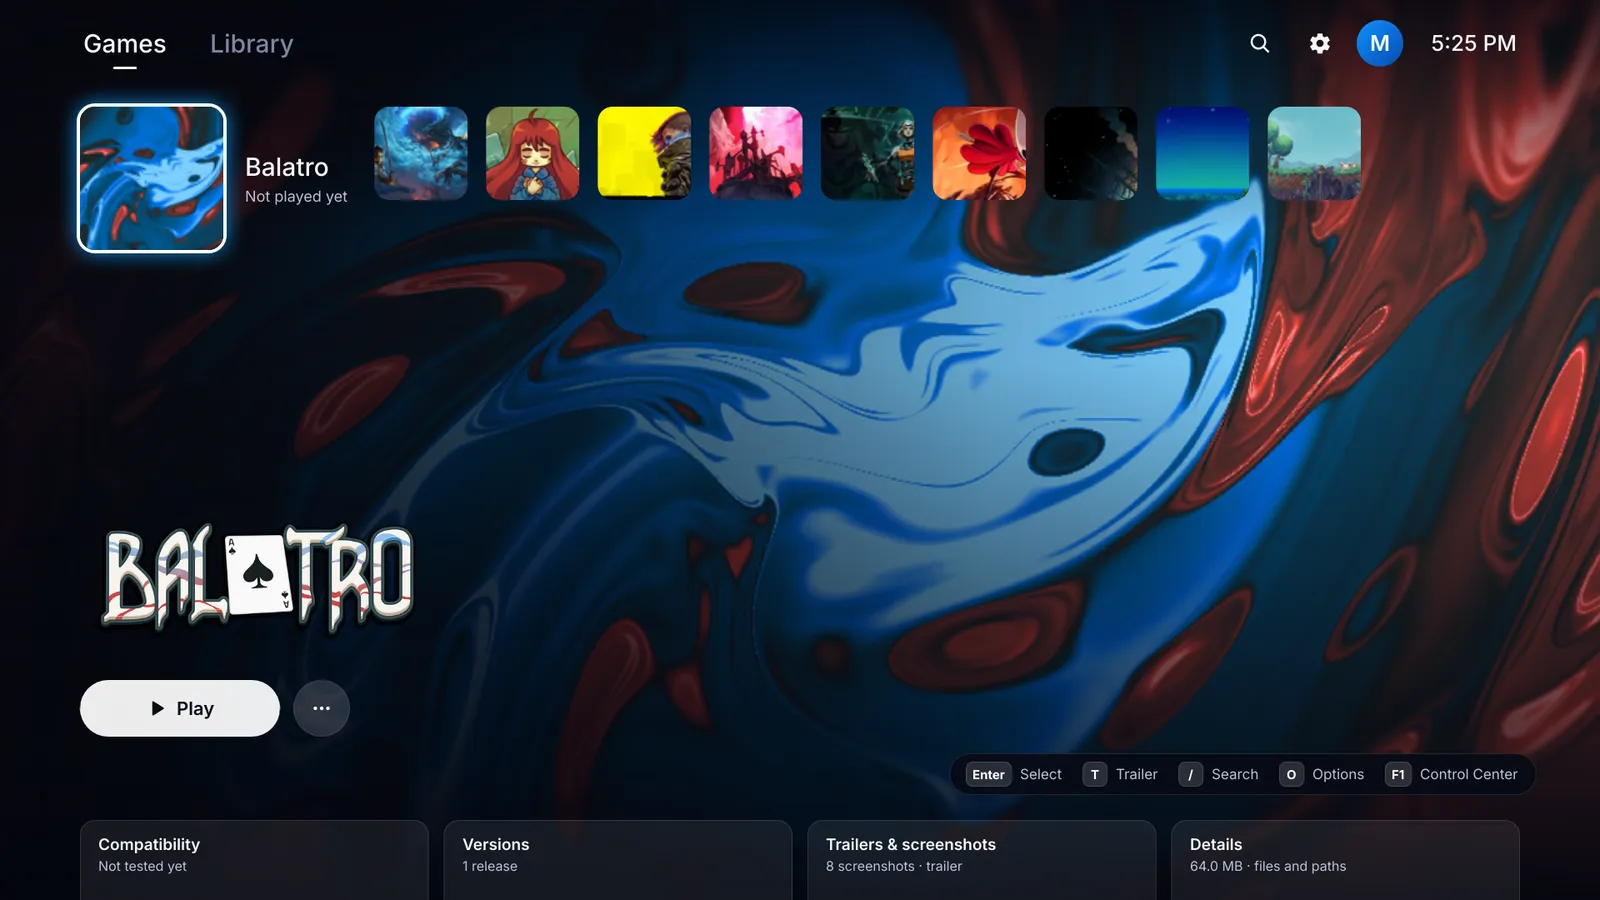
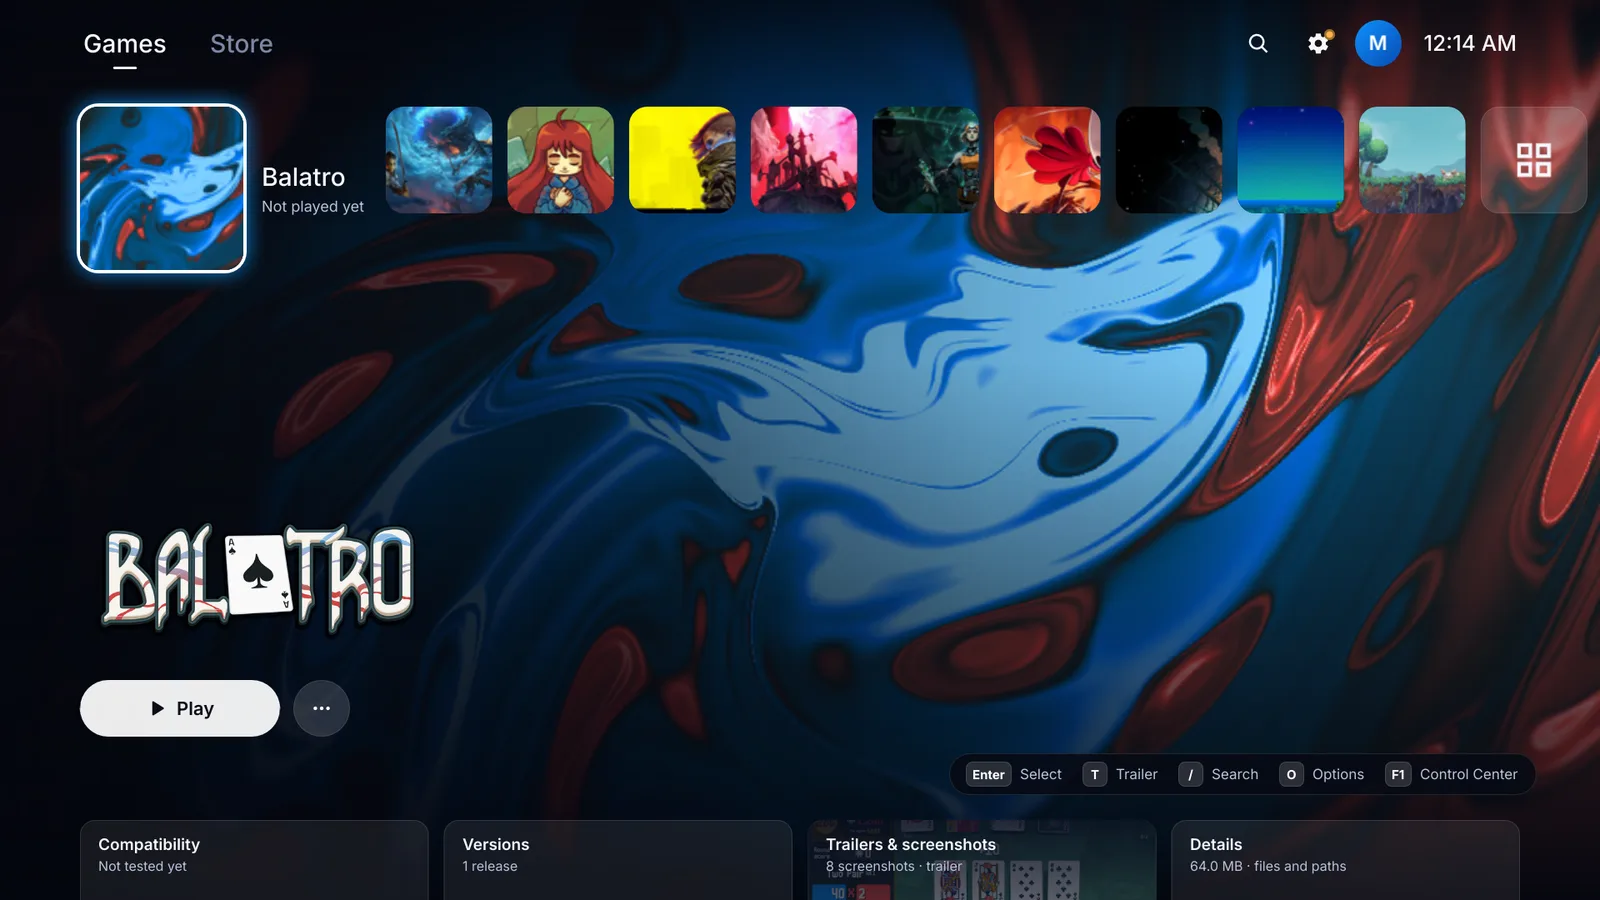
New Home, Game Library and profile screenshots; Coming soon: SwarmPlay Link and SwarmPlay OS; 1.32.1

diff --git a/index.html b/index.html
@@ -39,6 +39,7 @@
     </a>
     <div class="links">
       <a href="#home">Features</a>
+      <a href="#soon">Coming soon</a>
       <a href="#get">Install</a>
       <a href="#faq">Questions</a>
       <a href="https://github.com/swarmplayhq/swarmplay" rel="noopener">GitHub</a>
@@ -68,11 +69,11 @@
           Source code
         </a>
       </div>
-      <p class="meta reveal">Version <span data-version>1.29.0</span> · <a href="https://github.com/swarmplayhq/swarmplay/releases" rel="noopener">what's new</a></p>
+      <p class="meta reveal">Version <span data-version>1.32.1</span> · <a href="https://github.com/swarmplayhq/swarmplay/releases" rel="noopener">what's new</a></p>
     </div>
     <figure class="hero-shot reveal">
       <button class="shot" type="button" data-zoom aria-label="Enlarge: the Home screen">
-        <img src="assets/shots/home.webp" width="1600" height="900" alt="SwarmPlay's Home screen: a row of games across the top, Balatro chosen, with its background art, logo and a Play button.">
+        <img src="assets/shots/home.webp" width="1600" height="900" alt="SwarmPlay's Home screen: a row of games across the top, Balatro chosen and bigger, with its background art, logo, a Play button and its activity cards.">
       </button>
     </figure>
   </div>
@@ -109,12 +110,12 @@
 
   <article class="feature reveal">
     <div class="f-text">
-      <p class="kicker">Library</p>
+      <p class="kicker">Game Library and Store</p>
       <h3 class="disp">PS5, PS4 and PC, in one place.</h3>
-      <p>Search, filter by genre and sort however you like. PS5 games run on KytyPS5 and PS4 games on shadPS4, which SwarmPlay installs and keeps up to date for you. PC games run natively, or with Wine and Proton.</p>
+      <p>Your Game Library holds what's installed and what's on its way. The Store helps you discover new games and browse the rest, sorted and filtered from one panel. PS5 games run on KytyPS5 and PS4 games on shadPS4, which SwarmPlay installs and keeps up to date for you. PC games run natively, or with Wine and Proton.</p>
     </div>
-    <button class="shot" type="button" data-zoom aria-label="Enlarge: the Library">
-      <img src="assets/shots/library.webp" width="1600" height="900" loading="lazy" alt="The Library on Installed: covers of Stardew Valley, Hollow Knight Silksong, Hades II, Baldur's Gate 3, Cyberpunk 2077, Dead Cells and Balatro.">
+    <button class="shot" type="button" data-zoom aria-label="Enlarge: the Game Library">
+      <img src="assets/shots/game-library.webp" width="1600" height="900" loading="lazy" alt="The Game Library on Installed: covers of Balatro, Baldur's Gate 3, Celeste, Cyberpunk 2077, Dead Cells, Hades II, Hollow Knight Silksong, Outer Wilds, Stardew Valley and Terraria.">
     </button>
   </article>
 
@@ -125,15 +126,26 @@
       <p>Press the controller's home button for downloads, notifications and power, from anywhere in SwarmPlay.</p>
     </div>
     <button class="shot" type="button" data-zoom aria-label="Enlarge: the Control Center">
-      <img src="assets/shots/control-center.webp" width="1600" height="900" loading="lazy" alt="The Control Center at the bottom of the screen: Downloads and Notifications cards, and Library, Settings, Controls and Quit buttons.">
+      <img src="assets/shots/control-center.webp" width="1600" height="900" loading="lazy" alt="The Control Center at the bottom of the screen: Downloads and Notifications cards, and Store, Settings, Controls and Quit buttons.">
     </button>
   </article>
 
   <article class="feature reveal">
     <div class="f-text">
+      <p class="kicker">You</p>
+      <h3 class="disp">Everyone gets their own.</h3>
+      <p>Press your picture for your profile: what you're playing, your hours, and a quick way to switch user, open your screenshots or turn off.</p>
+    </div>
+    <button class="shot" type="button" data-zoom aria-label="Enlarge: the profile card">
+      <img src="assets/shots/profile.webp" width="1600" height="900" loading="lazy" alt="The profile card at the top right of Home: the player's picture and name, Online, 10 games, and Profile, Switch user, Media gallery and Power.">
+    </button>
+  </article>
+
+  <article class="feature flip reveal">
+    <div class="f-text">
       <p class="kicker">Settings</p>
       <h3 class="disp">Settings you already know.</h3>
-      <p>Sound, storage for each drive, theme and notifications, laid out like a console's. Add another drive and choose where games go, all with a controller.</p>
+      <p>Sound, storage for each drive, theme and notifications, laid out like a console's. Add a drive, move games between drives or delete them, all with a controller.</p>
     </div>
     <button class="shot" type="button" data-zoom aria-label="Enlarge: Settings, Storage">
       <img src="assets/shots/settings-storage.webp" width="1600" height="900" loading="lazy" alt="Settings, Storage: a drive's size and free space, split into games, downloads, media and other.">
@@ -170,6 +182,28 @@
       <svg aria-hidden="true" viewBox="0 0 24 24" fill="none" stroke="currentColor" stroke-width="1.8" stroke-linecap="round" stroke-linejoin="round"><path d="M8 7l-5 5 5 5M16 7l5 5-5 5M14 4l-4 16"/></svg>
       <h3>Open source</h3>
       <p>Free, under the MIT License, written in Rust. Read it, change it, or send a fix.</p>
+    </div>
+  </div>
+</section>
+
+<section class="wrap soon" id="soon" aria-labelledby="soon-title">
+  <header class="sec-head reveal">
+    <p class="kicker">Coming soon</p>
+    <h2 class="disp" id="soon-title">Next on SwarmPlay.</h2>
+    <p class="lead">Two things we're building now.</p>
+  </header>
+  <div class="soon-grid">
+    <div class="card soon-card reveal">
+      <span class="soon-badge">Coming soon</span>
+      <svg aria-hidden="true" viewBox="0 0 24 24" fill="none" stroke="currentColor" stroke-width="1.8" stroke-linecap="round" stroke-linejoin="round"><rect x="2" y="4" width="14" height="10" rx="1.6"/><path d="M6 18h6M9 14v4"/><rect x="17" y="8" width="5" height="12" rx="1.2"/><path d="M19.5 17.5h.01"/></svg>
+      <h3>SwarmPlay Link</h3>
+      <p>Play your PC's games on your TV, phone and tablet: Android TV, Android, iPhone and iPad. One button opens SwarmPlay straight away, no desktop and no app list. A built-in private network lets you play away from home too, without opening ports on your router.</p>
+    </div>
+    <div class="card soon-card reveal">
+      <span class="soon-badge">Coming soon</span>
+      <svg aria-hidden="true" viewBox="0 0 24 24" fill="none" stroke="currentColor" stroke-width="1.8" stroke-linecap="round" stroke-linejoin="round"><rect x="3" y="3" width="18" height="14" rx="2"/><path d="M8 21h8M12 17v4M9 10l2 2 4-4"/></svg>
+      <h3>SwarmPlay OS</h3>
+      <p>An operating system that turns any PC into a console. It starts straight into SwarmPlay, with drivers, controllers and updates taken care of, so the TV is all you need to look at.</p>
     </div>
   </div>
 </section>

diff --git a/assets/site.css b/assets/site.css
@@ -139,6 +139,13 @@ h3.disp { font-size: clamp(1.6rem, 3vw, 2.2rem); }
 .card p { margin: 0; color: var(--mute); font-size: 0.97rem; }
 
 /* Install */
+/* Coming soon */
+.soon { padding-bottom: 40px; }
+.soon-grid { display: grid; grid-template-columns: repeat(2, minmax(0, 1fr)); gap: 16px; }
+.soon-card { position: relative; padding: 32px; }
+.soon-card h3 { font-size: 1.35rem; }
+.soon-badge { position: absolute; top: 22px; right: 22px; font-size: 0.74rem; font-weight: 700; letter-spacing: 0.06em; text-transform: uppercase; padding: 6px 10px; border-radius: 999px; color: var(--accent-ink); border: 1px solid currentColor; }
+@media (max-width: 760px) { .soon-grid { grid-template-columns: 1fr; } }
 .get { padding-block: 110px; background: linear-gradient(180deg, transparent, var(--page-2) 50%, transparent); }
 .get-grid { display: grid; grid-template-columns: minmax(0, 5fr) minmax(0, 7fr); gap: 32px 56px; align-items: start; }
 .panel { background: var(--card); border: 1px solid var(--line); border-radius: 22px; padding: 22px; box-shadow: 0 30px 80px -30px rgba(0, 0, 0, 0.5); }
